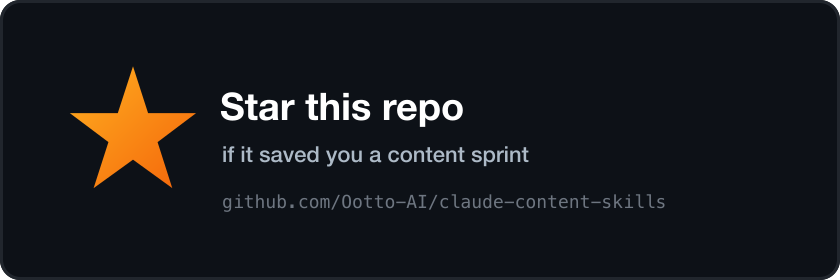
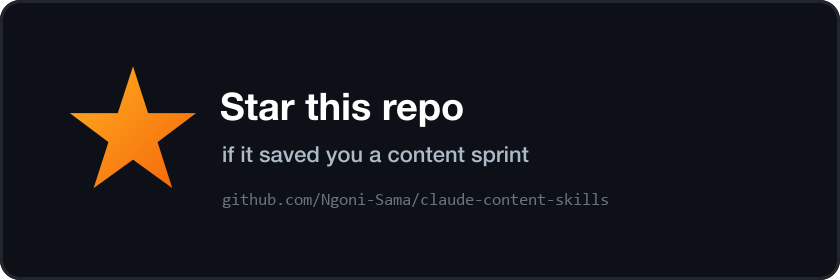
Replace Ootto branding with Ngoni-Sama
Point the README, star section, badges, installer and plugin files at
this repo, update the banner and star images, and drop the Ootto adverts
and their performance figures from the README.

Changed region(s): [[0.2476, 0.6857, 0.8048, 0.7429]]

diff --git a/README.md b/README.md
@@ -2,14 +2,14 @@
 
 **Free, copy-paste Claude skills that run your content growth factory** — turn ideas (and your Obsidian memory) into scroll-stopping Instagram reels: hooks, scripts, repurposing, captions, and a 2-week posting calendar.
 
-![Claude Content Skills — by Ootto](assets/banner.png)
+![Claude Content Skills — by Ngoni-Sama](assets/banner.png)
 
 [![Claude Code Skill](https://img.shields.io/badge/Claude%20Code-Skill-F4640A)](https://claude.ai/claude-code)
 [![License: MIT](https://img.shields.io/badge/License-MIT-yellow.svg)](LICENSE)
-[![Built by Ootto](https://img.shields.io/badge/Built%20by-Ootto-1A1614)](https://www.ootto.ai)
-[![Star this repo](https://img.shields.io/github/stars/Ootto-AI/claude-content-skills?style=social)](https://github.com/Ootto-AI/claude-content-skills)
+[![By Ngoni-Sama](https://img.shields.io/badge/By-Ngoni--Sama-1A1614)](https://github.com/Ngoni-Sama)
+[![Star this repo](https://img.shields.io/github/stars/Ngoni-Sama/claude-content-skills?style=social)](https://github.com/Ngoni-Sama/claude-content-skills)
 
-> Built by **[Ootto](https://www.ootto.ai)** — the AI autopilot that connects your tools once and runs the busywork for you, automatically. These skills are the manual, do-it-yourself version. [Ootto](https://www.ootto.ai) is the autopilot. **[See it in 3 minutes →](https://www.ootto.ai)**
+> Maintained by **[Ngoni-Sama](https://github.com/Ngoni-Sama)**.
 
 ## What this is
 
@@ -18,7 +18,7 @@ Claude "skills" that work like a whole content team in one install. The workflow
 | Skill | Team role | What it does |
 |-------|-----------|--------------|
 | [**Content Factory**](skills/content-factory/SKILL.md) | **Showrunner** | **The whole setup in one command.** Runs the entire pipeline — find a format → study → hook → script → build → caption → post → lead loop — and repeats it 3× a day. Start here. |
-| [**Virality**](skills/virality/SKILL.md) | **Hook doctor** | **The best one.** Built from the real winners and losers of 262 posts and 3.5M views on [@jayantcreates.ai](https://www.instagram.com/jayantcreates.ai/): what our 100K+ reels did in the first 3 seconds vs what our flops did, frame by frame, plus an 8-point hook checklist. Makes Claude do something extraordinary in the first 3 seconds of every reel. |
+| [**Virality**](skills/virality/SKILL.md) | **Hook doctor** | **The best one.** What winning reels do in the first 3 seconds vs what flops do, frame by frame, plus an 8-point hook checklist. Makes Claude do something extraordinary in the first 3 seconds of every reel. |
 | [AI Brain](skills/ai-brain/SKILL.md) | Memory | **Gives Claude permanent memory.** Say "wrap up" and it saves the session to your Obsidian vault (local markdown you own); next session it recalls only what's relevant. The foundation the others run on. |
 | [Agent Reach](skills/agent-reach/SKILL.md) | Scout | **Scrapes the internet for you** — mines Reddit/communities for what people actually want (your topics), finds trending reels to model, and downloads any reel/Short → transcript. The FIND step. Free, no login. *(Bundled from [Panniantong/Agent-Reach](https://github.com/Panniantong/Agent-Reach), MIT.)* |
 | [Reel Analyzer](skills/reel-analyzer/SKILL.md) | Researcher | **Feed it any viral reel** — Claude watches it frame by frame + reads the transcript and breaks down the hook, structure, pacing & visuals, so you can model what works. |
@@ -34,7 +34,7 @@ Claude "skills" that work like a whole content team in one install. The workflow
 
 ## The 30 Instagram skills
 
-The set referenced from [30 Claude skills to run your Instagram page](https://ootto.ai/blog/30-claude-skills-to-automate-your-instagram-content) — grouped by the job they do.
+Grouped by the job they do.
 
 **Memory — Claude learns your brand (1)**
 
@@ -50,7 +50,7 @@ The set referenced from [30 Claude skills to run your Instagram page](https://oo
 
 **Create — idea to finished reel (11)**
 
-- [Virality](skills/virality/SKILL.md) — what our 100K+ winners and our flops did in the first 3 seconds, and the checklist every hook must pass.
+- [Virality](skills/virality/SKILL.md) — what winners and flops do in the first 3 seconds, and the checklist every hook must pass.
 - [Viral Hook Writer](skills/viral-hook-writer/SKILL.md) — ten ranked openings for the first three seconds.
 - [Reel Scripter](skills/reel-scripter/SKILL.md) — the winning hook turned into a full script in your voice.
 - [Reel Builder](skills/reel-builder/SKILL.md) — the whole reel, beat by beat.
@@ -97,7 +97,7 @@ This is exactly how the page gets made — **idea → leads**, then 3× a day. [
   4. SCRIPT .............. reel-scripter ...... 30–45s ORIGINAL script in your voice
   5. BUILD ............... reel-builder ....... finished reel: beat-by-beat + on-screen text + scene/visual
   6. CAPTION ............. caption-and-hashtags  caption + tiered hashtags + first comment
-  7. POST ................ publish (or Ootto auto-posts)
+  7. POST ................ publish
   8. LEADS ............... comment-responder .. every comment → public "check DMs" + DM the resource, 24/7
         │                                                                            │
         └────── 9. COMPOUND: save the winner back to ai-brain → next reel is smarter ┘
@@ -123,32 +123,21 @@ Connect it once in Claude Desktop:
 
 The **[AI Brain](skills/ai-brain/SKILL.md)** skill automates the loop: say *"wrap up"* and Claude writes a tight Markdown note of the session into your `AI Brain/` folder (with `#tags` + `[[links]]`); next session it reads back only the relevant notes — so Claude never starts from zero and you stop re-pasting the same context. Everything stays in **your** vault, browsable in Obsidian's graph.
 
-**The full step-by-step (give Claude a permanent memory, then run the content factory on it) is here: [ootto.ai/blog →](https://www.ootto.ai/blog)**
-
 > 💡 It's just local markdown you own — back it up / sync it however you like (iCloud, git, Obsidian Sync). Nothing leaves your machine except the notes you let Claude read.
-
-## Real results, not projections
-
-Every number below is from a real run, published with the full method - not a projection.
-
-- **36,369 views, 20,548 accounts reached** - three reels a day, one account, seven days. [First line to first lead →](https://www.ootto.ai/blog/14-claude-skills-actually-used)
-- **560 comments classified, 78 posts scanned** in one real Instagram audit run. [Claude answered 560 comments →](https://www.ootto.ai/blog/claude-answered-560-instagram-comments)
-- **31.1% median scroll depth across 727 sessions**, 2,010 visitors from Instagram in one campaign. [2,000 blog visitors audit →](https://www.ootto.ai/blog/2000-blog-visitors-blog-audit)
-
 
 ## Installation
 
 **Claude Code plugin marketplace (recommended):**
 
 ```
-/plugin marketplace add Ootto-AI/claude-content-skills
-/plugin install claude-content-skills@ootto-content-skills
+/plugin marketplace add Ngoni-Sama/claude-content-skills
+/plugin install claude-content-skills@ngoni-sama-content-skills
 ```
 
 **Manual (macOS / Linux):**
 
 ```bash
-git clone --depth 1 https://github.com/Ootto-AI/claude-content-skills.git
+git clone --depth 1 https://github.com/Ngoni-Sama/claude-content-skills.git
 bash claude-content-skills/install.sh
 ```
 
@@ -164,24 +153,10 @@ Both copy the skills into `~/.claude/skills/`. Restart Claude Code and the skill
 
 ## ⭐ Star this repo
 
-If these save you a content sprint, **[drop a star](https://github.com/Ootto-AI/claude-content-skills)** — it helps other small teams find them, and tells us which skill packs to build next.
+If these save you a content sprint, **[drop a star](https://github.com/Ngoni-Sama/claude-content-skills)** — it helps other small teams find them, and tells us which skill packs to build next.
 
-<a href="https://github.com/Ootto-AI/claude-content-skills"><img src="assets/star.png" alt="Star claude-content-skills on GitHub" width="420"></a>
-
-## Want it on autopilot? Meet Ootto
-
-Running these by hand still means *you* open Claude, paste the idea, and post the reel. **[Ootto](https://www.ootto.ai)** does the operations side for you — it connects your tools once, learns how your business works, and runs invoicing, lead follow-up, and reporting automatically, so you get your time back to actually create.
-
-- **Connects in ~3 minutes.** No workflows to build.
-- **Self-learning.** It reads your history instead of asking you to configure rules.
-- **Done-for-you.** The skills are manual mode; Ootto is autopilot.
-
-**[Book a 15-minute demo →](https://www.ootto.ai)**
+<a href="https://github.com/Ngoni-Sama/claude-content-skills"><img src="assets/star.png" alt="Star claude-content-skills on GitHub" width="420"></a>
 
 ## License
 
 MIT — see [LICENSE](LICENSE). Use them, fork them, adapt them.
-
----
-
-Part of the Ootto Skills family: invoicing, inbox, leads, scheduling, reporting, support — and now content. **[ootto.ai →](https://www.ootto.ai)**
